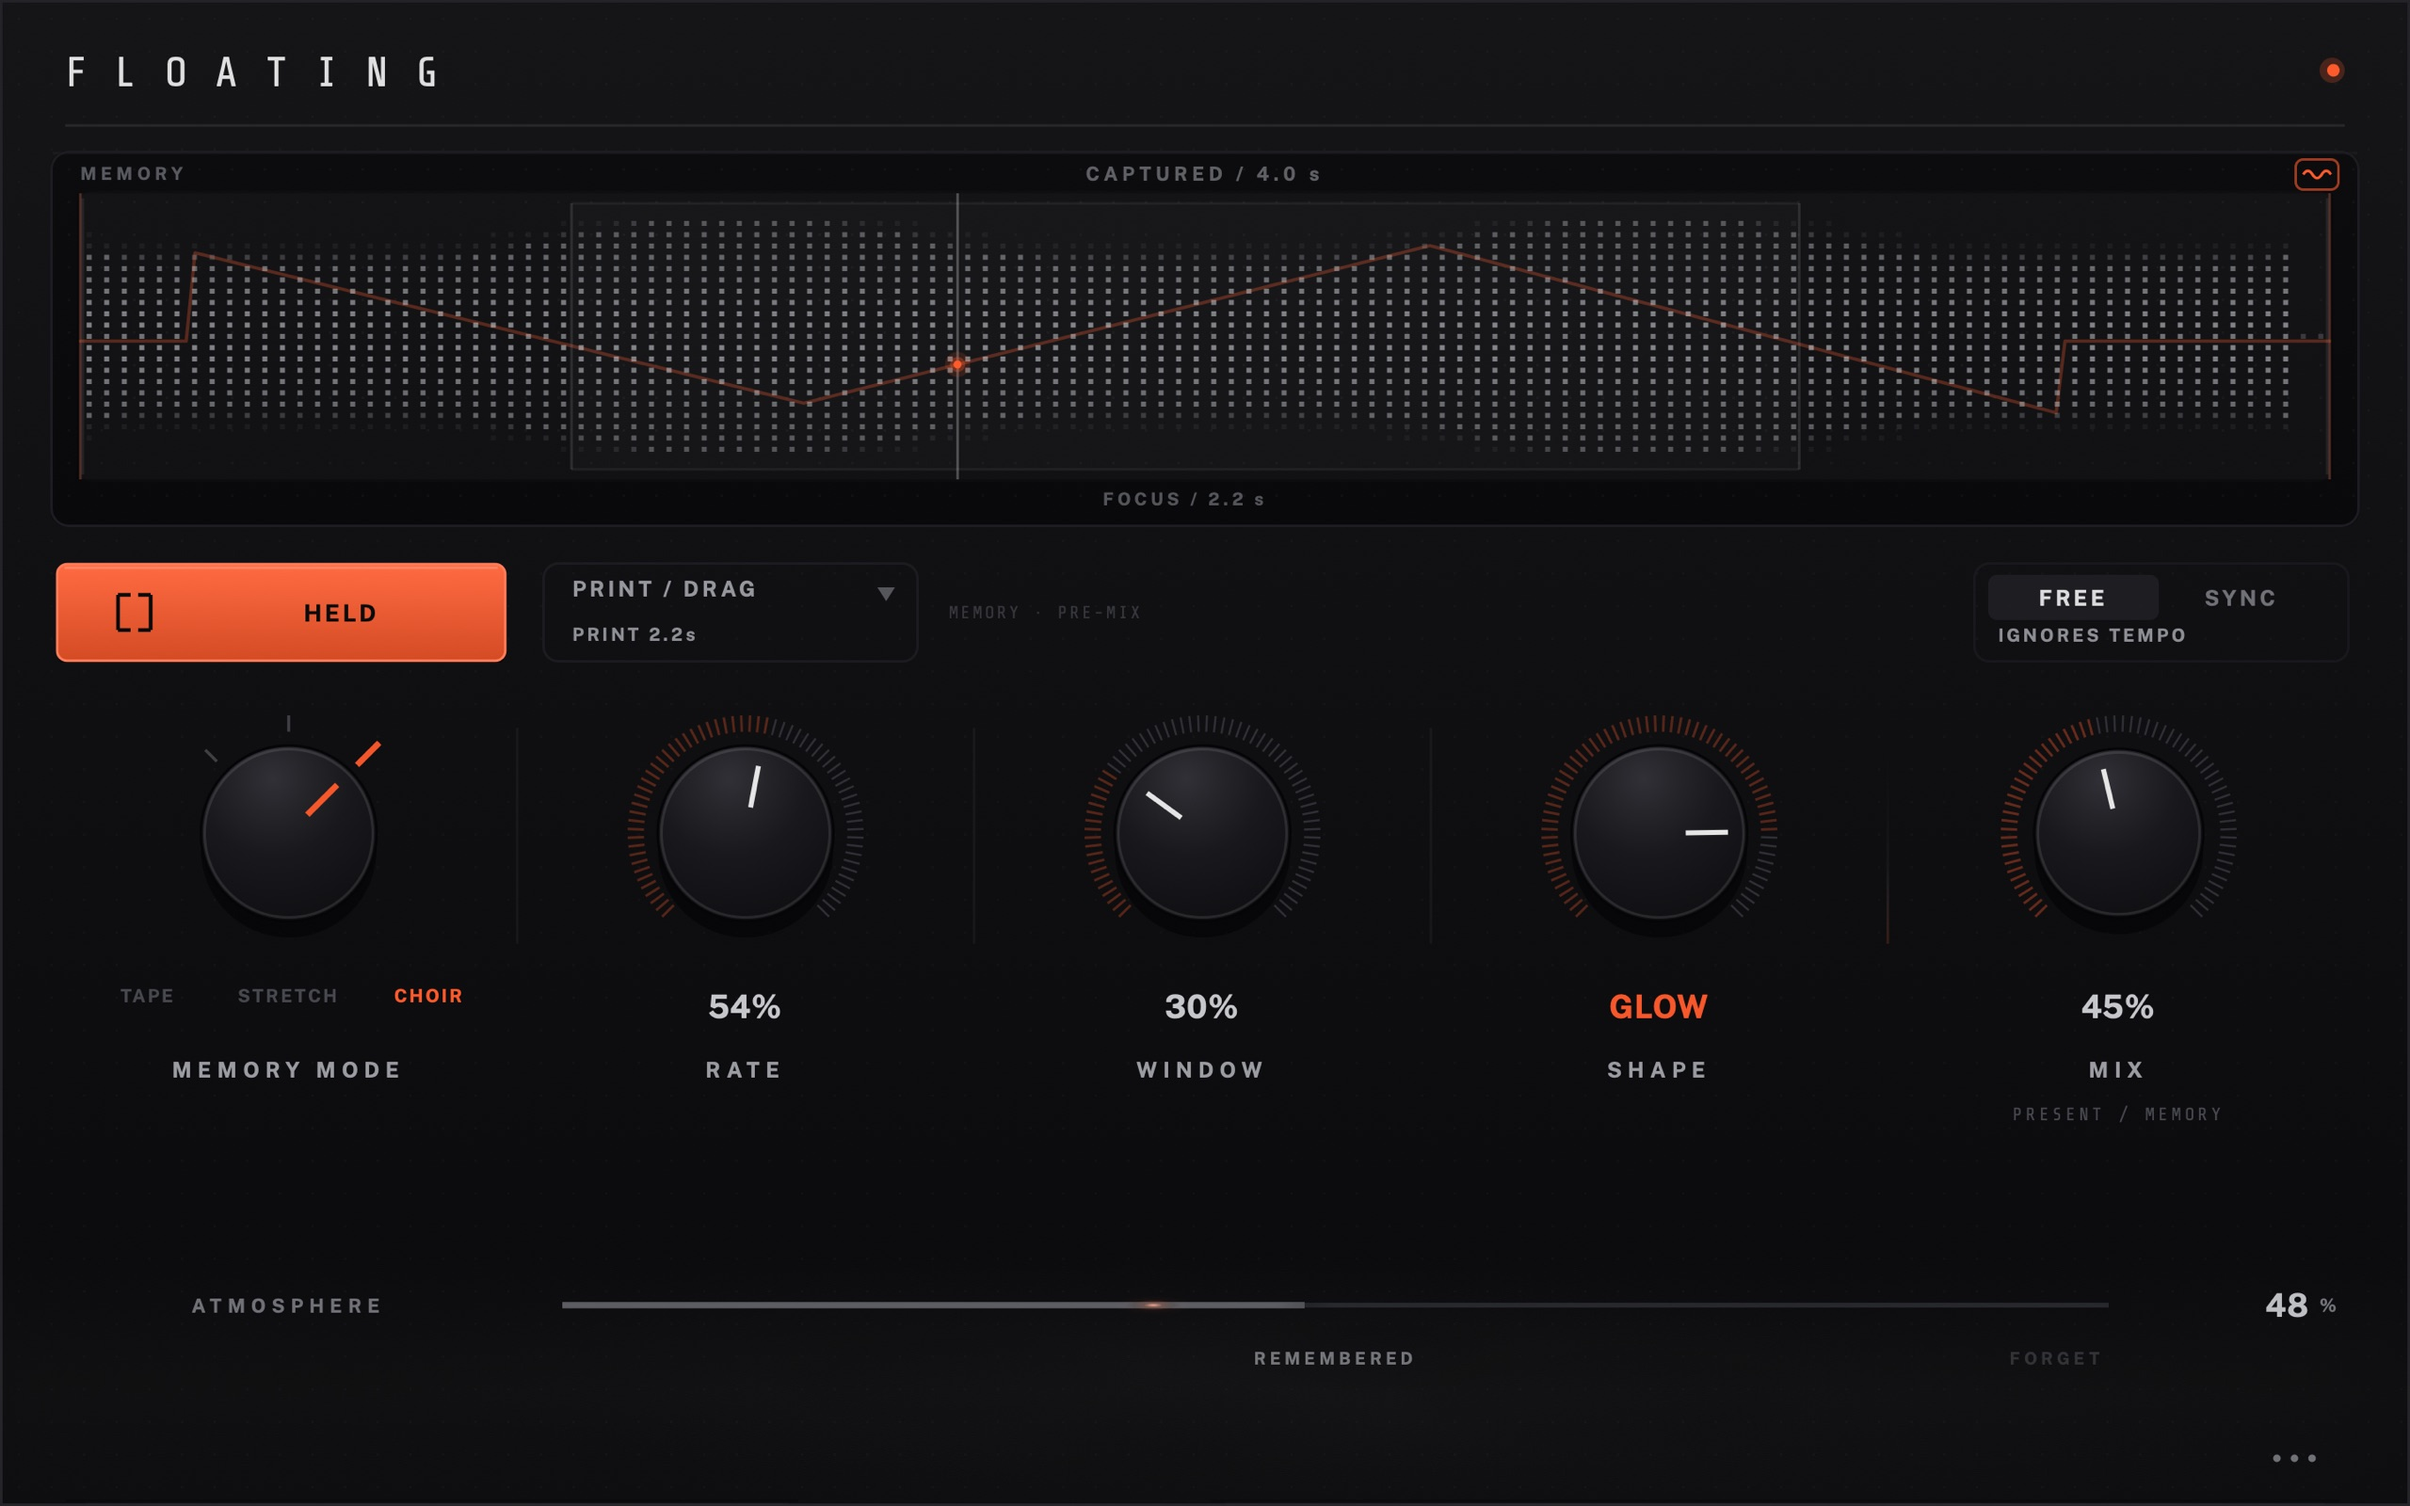
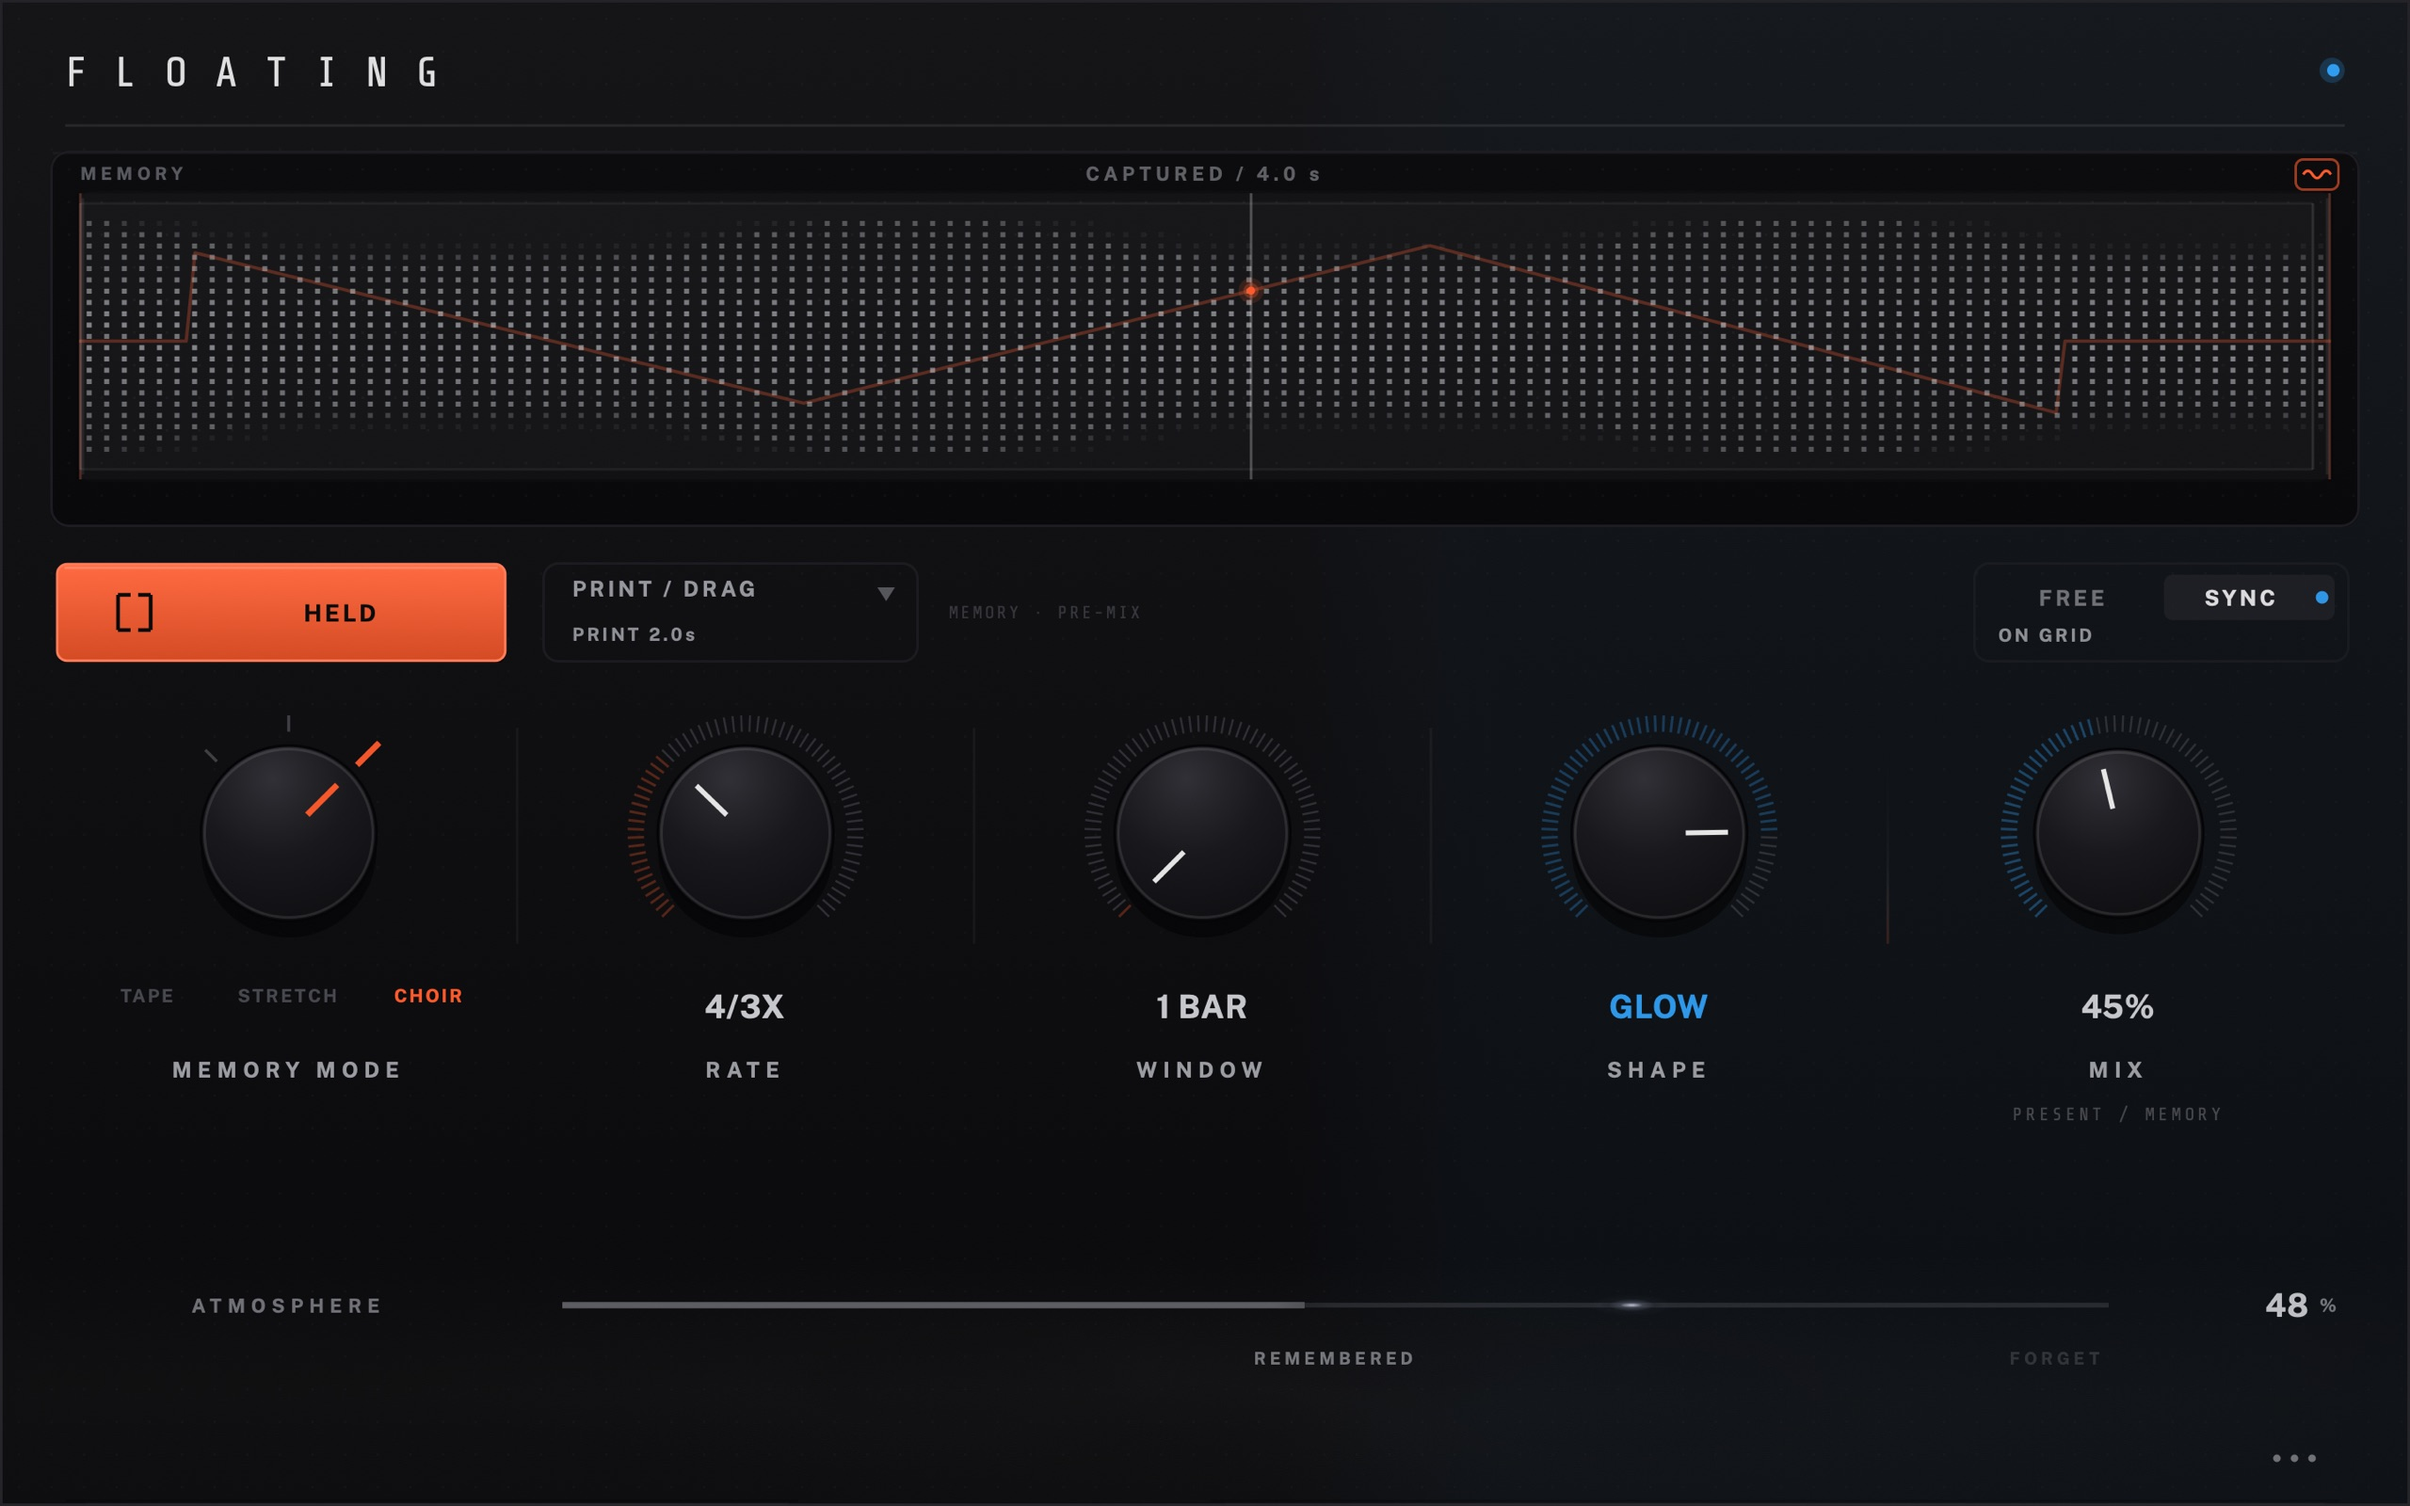
Hero: FLOATING caught mid-switch from FREE to SYNC
The v0.4.0 hero (manual shot 10) showed the switch at rest on FREE, which
looks the same as v0.3.0 apart from one small control. It is now the
--promo-shots frame the announcement images use: the panel three frames into
a FREE -> SYNC switch, the left still orange and the right already blue (the
switch reading ON GRID, Rate 4/3X, Window 1 BAR, Choir at GLOW). It is
resized with the same recipe (sips -Z 1920 q86 / -Z 2560 q82), so the
dimensions are unchanged. The alt text, caption and README provenance
follow. It also serves as the video poster and og:image.

diff --git a/index.html b/index.html
@@ -64,8 +64,8 @@
                  srcset="assets/img/hero-memory.jpg 1920w, assets/img/hero-memory@2x.jpg 2560w"
                  sizes="(max-width: 1120px) 100vw, 1120px"
                  width="1920" height="1200"
-                 alt="The FLOATING interface: a held four-second Memory in the Memory Horizon with a remembered Atmosphere movement drawn across it, Choir mode selected, the FREE | SYNC switch on FREE, and the Rate, Window, Shape and Mix controls below.">
-            <figcaption>Held Memory · Choir · a remembered Atmosphere movement</figcaption>
+                 alt="The FLOATING interface caught mid-switch from FREE to SYNC: the left of the panel still orange, the right already blue. A held Memory in Choir at GLOW, Rate reading 4/3X and Window 1 BAR, the switch reading ON GRID, and a remembered Atmosphere movement.">
+            <figcaption>Held Memory · Choir · switching from FREE to SYNC</figcaption>
           </figure>
         </div>
 

diff --git a/README.md b/README.md
@@ -30,9 +30,11 @@ JavaScript off.
 
 ## Screenshots
 
-`assets/img/hero-memory*.jpg` is `10-remembered.png` from the product repo's
-manual render harness (`FloatingSmokeTest --manual-shots <dir> 3`), resized with
-`sips -Z 1920` / `-Z 2560` at quality 86 / 82. The harness renders the real
+`assets/img/hero-memory*.jpg` is `hero-sync-curtain-3.png` from the product
+repo's promo render harness (`FloatingSmokeTest --promo-shots <dir> 3`) — the
+panel three frames into a FREE → SYNC switch, the same frame the v0.4.0
+announcement images use — resized with `sips -Z 1920` / `-Z 2560` at quality
+86 / 82. The harness renders the real
 editor through the shipping processor path with the footer version neutralised,
 which is why no screenshot here carries a version number to go stale.
 
